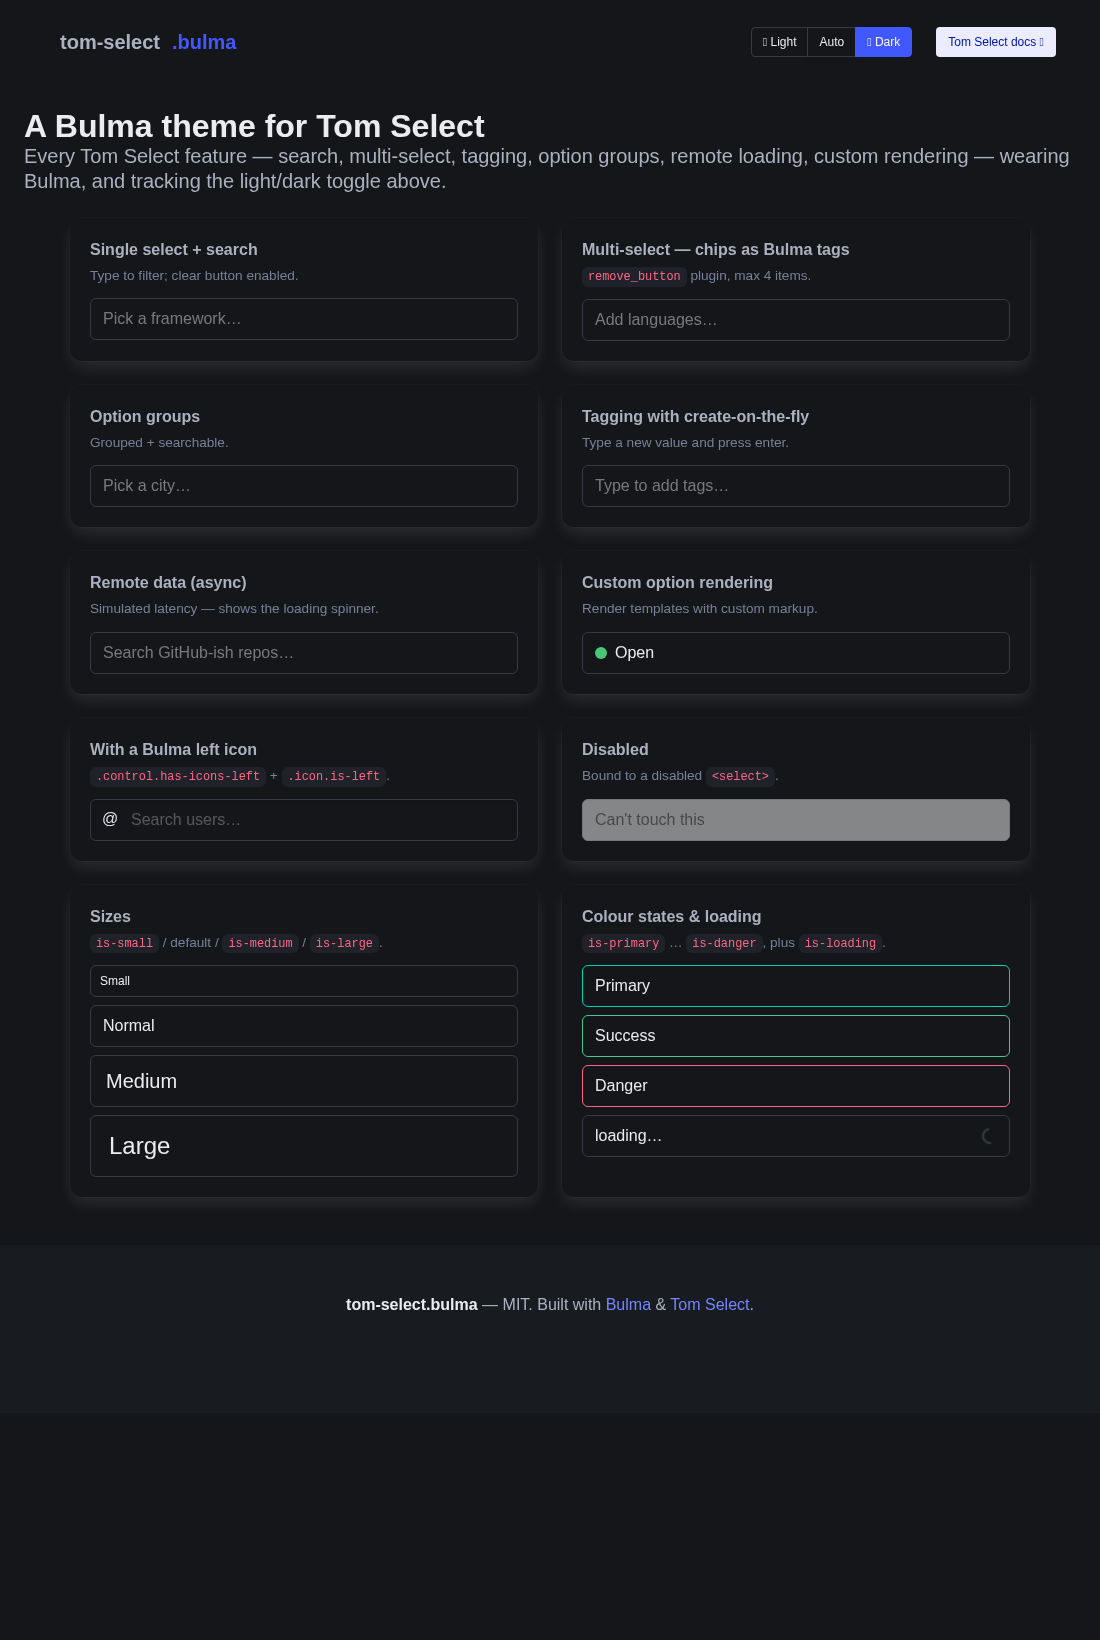
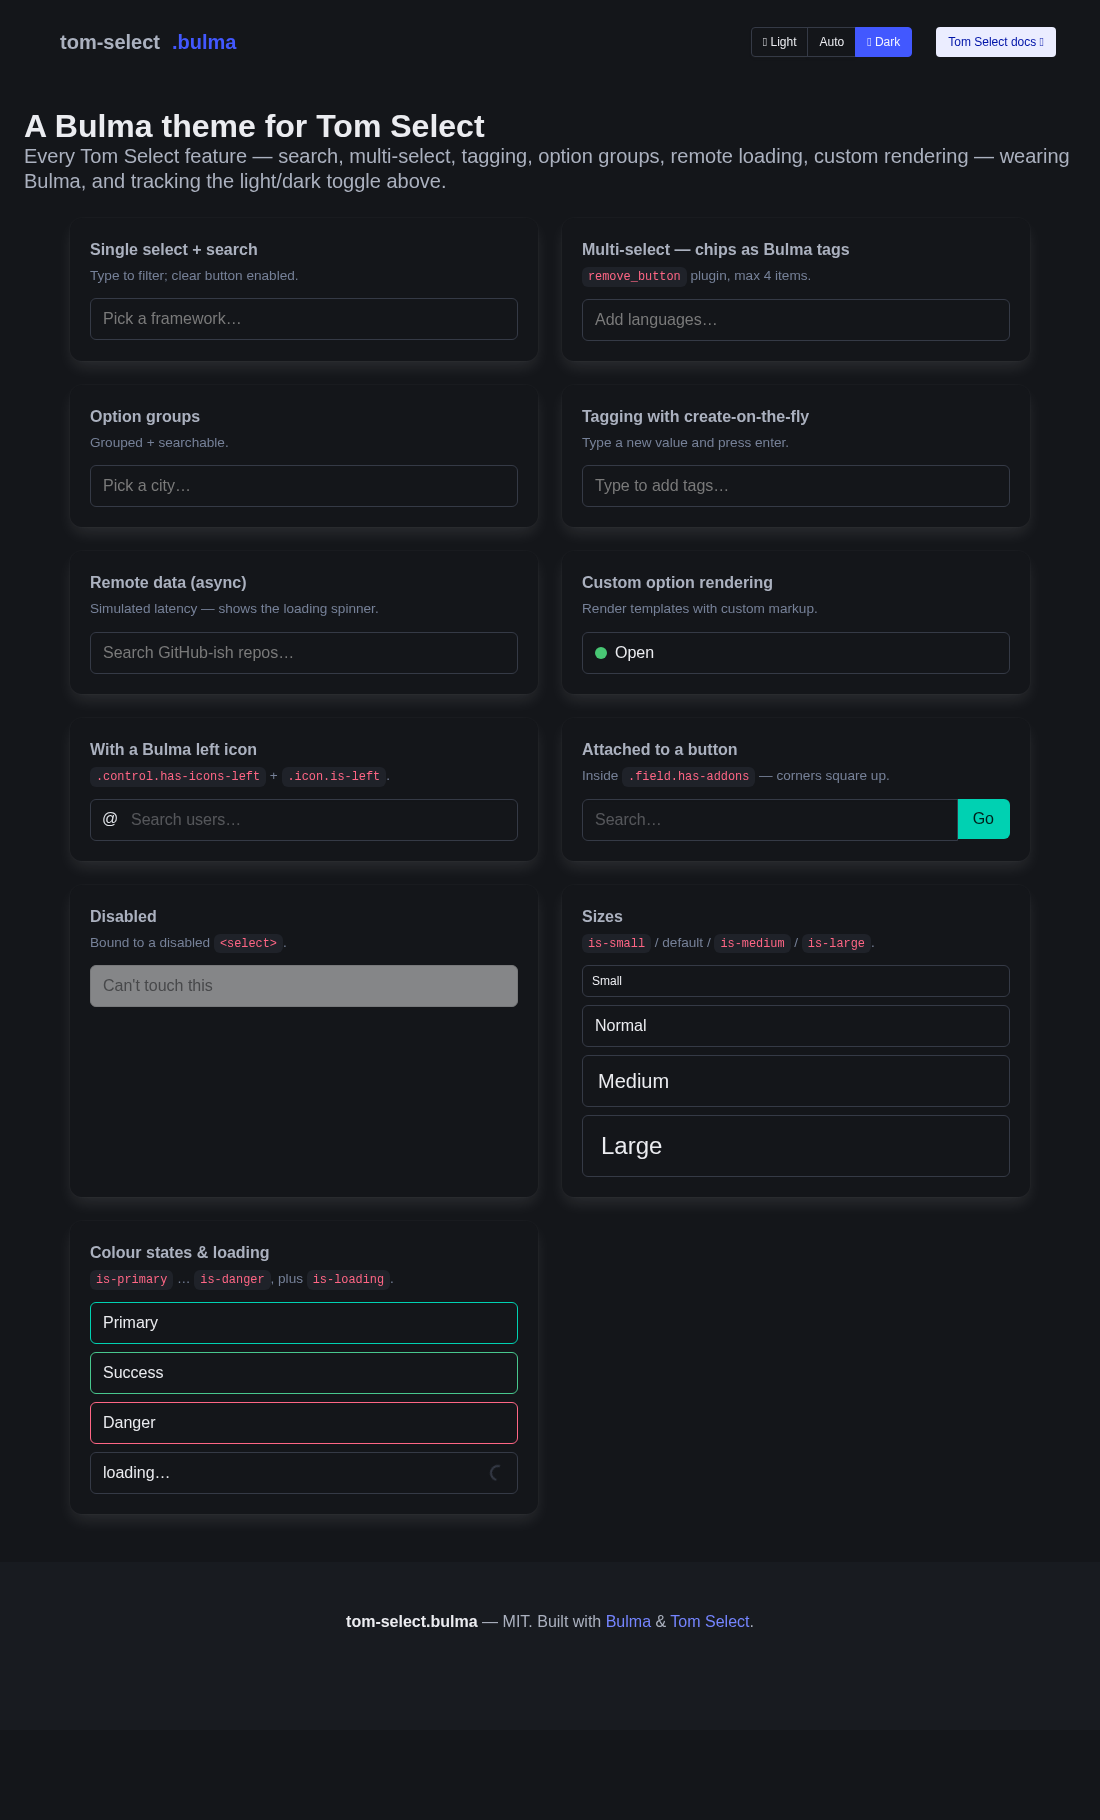
feat: has-addons grouping, optgroup dividers; add BS5 comparison
- Square the control's inner corners inside .field.has-addons so it joins
  flush with an adjacent button/control (+ is-expanded growth, focus z-index),
  matching what the bootstrap5 theme does for .input-group.
- Add a divider line between option groups (.optgroup-header border-top);
  the base already suppresses it on the first group.
- Add a 'has-addons' example to the demo gallery; refresh screenshots.
- README: add a parity table vs the official bootstrap5 theme, with notes
  on which Bootstrap-specific rows are N/A for Bulma.

diff --git a/src/tom-select.bulma.scss b/src/tom-select.bulma.scss
@@ -155,6 +155,9 @@ $ts-bulma-colors: primary, link, info, success, warning, danger;
 	color: var(--bulma-text-weak, #7a7a7a);
 	background-color: var(--bulma-scheme-main, #fff);
 	font-weight: var(--bulma-weight-semibold, 600);
+	// Divider between option groups. The base already suppresses this on the
+	// first group via `.optgroup:first-child .optgroup-header { border-top: 0 }`.
+	border-top: 1px solid var(--bulma-border, #dbdbdb);
 }
 
 // --- Disabled --------------------------------------------------------------
@@ -267,6 +270,33 @@ $ts-bulma-colors: primary, link, info, success, warning, danger;
 }
 .control.has-icons-right .icon {
 	right: 0;
+}
+
+// --- Bulma .field.has-addons grouping ---------------------------------------
+// Square the inner corners so the control butts flush against an adjacent
+// control/button, mirroring how Bulma treats a native .input / .select.
+.field.has-addons .control:not(:first-child):not(:last-child) .ts-control {
+	border-radius: 0;
+}
+.field.has-addons .control:first-child:not(:only-child) .ts-control {
+	border-top-right-radius: 0;
+	border-bottom-right-radius: 0;
+}
+.field.has-addons .control:last-child:not(:only-child) .ts-control {
+	border-top-left-radius: 0;
+	border-bottom-left-radius: 0;
+}
+// Let an .is-expanded control grow, and its wrapper fill it.
+.field.has-addons .control.is-expanded {
+	flex-grow: 1;
+	flex-shrink: 1;
+}
+.field.has-addons .control.is-expanded .ts-wrapper {
+	width: 100%;
+}
+// Raise the focused control so its focus ring is not clipped by the neighbour.
+.field.has-addons .ts-wrapper.focus {
+	z-index: 4;
 }
 
 // --- Loading spinner (Bulma .is-loading; also Tom Select's own `.loading`) --

diff --git a/docs/tom-select.bulma.css b/docs/tom-select.bulma.css
@@ -474,6 +474,7 @@
   color: var(--bulma-text-weak, #7a7a7a);
   background-color: var(--bulma-scheme-main, #fff);
   font-weight: var(--bulma-weight-semibold, 600);
+  border-top: 1px solid var(--bulma-border, #dbdbdb);
 }
 
 .ts-wrapper.disabled .ts-control {
@@ -623,6 +624,33 @@
 
 .control.has-icons-right .icon {
   right: 0;
+}
+
+.field.has-addons .control:not(:first-child):not(:last-child) .ts-control {
+  border-radius: 0;
+}
+
+.field.has-addons .control:first-child:not(:only-child) .ts-control {
+  border-top-right-radius: 0;
+  border-bottom-right-radius: 0;
+}
+
+.field.has-addons .control:last-child:not(:only-child) .ts-control {
+  border-top-left-radius: 0;
+  border-bottom-left-radius: 0;
+}
+
+.field.has-addons .control.is-expanded {
+  flex-grow: 1;
+  flex-shrink: 1;
+}
+
+.field.has-addons .control.is-expanded .ts-wrapper {
+  width: 100%;
+}
+
+.field.has-addons .ts-wrapper.focus {
+  z-index: 4;
 }
 
 .ts-wrapper.is-loading::after,

diff --git a/docs/index.html b/docs/index.html
@@ -195,6 +195,27 @@
 						</div>
 					</div>
 
+					<!-- Grouped with has-addons -->
+					<div class="column is-half">
+						<div class="box">
+							<p class="demo-label">Attached to a button</p>
+							<p class="demo-note">Inside <code>.field.has-addons</code> — corners square up.</p>
+							<div class="field has-addons">
+								<div class="control is-expanded">
+									<select id="addons" placeholder="Search…" autocomplete="off">
+										<option value="">Search…</option>
+										<option value="repo">Repository</option>
+										<option value="user">User</option>
+										<option value="issue">Issue</option>
+									</select>
+								</div>
+								<div class="control">
+									<button class="button is-primary">Go</button>
+								</div>
+							</div>
+						</div>
+					</div>
+
 					<!-- Disabled -->
 					<div class="column is-half">
 						<div class="box">
@@ -284,6 +305,7 @@
 				create: true,
 			});
 			new TomSelect('#icon', {});
+			new TomSelect('#addons', {});
 			new TomSelect('#disabled', {}); // Tom Select reads the disabled attr → .disabled wrapper
 			['#z1', '#z2', '#z3', '#z4'].forEach((s) => new TomSelect(s, {}));
 			['#c1', '#c2', '#c3'].forEach((s) => new TomSelect(s, {}));

diff --git a/README.md b/README.md
@@ -113,6 +113,31 @@ docs/index.html             the live example gallery (GitHub Pages source)
 docs/tom-select.bulma.css   compiled copy the demo loads
 ```
 
+## Compared to the official Bootstrap 5 theme
+
+Tom Select's `bootstrap5` theme is the closest reference point. This theme aims for parity on
+everything that maps to a Bulma idiom, and goes further where Bulma offers more:
+
+| Feature | `bootstrap5` | `tom-select.bulma` | Notes |
+| --- | :---: | :---: | --- |
+| Core skin (colour / border / radius / padding) | ✓ | ✓ | We derive ours from `var(--bulma-*)`. |
+| **Dark mode** | ✗ | ✓ | BS5 is light-only unless you wire up Bootstrap's dark vars; ours follows `data-theme="dark"` automatically. |
+| Focus ring | ✓ | ✓ | |
+| Placeholder, transitions, shadow | ✓ | ✓ | |
+| Multi-select chips + `remove_button` | ✓ | ✓ | Ours render as Bulma tags. |
+| Sizes | sm, lg | small, **medium**, large | Bootstrap only has two sizes. |
+| Colour states | invalid / valid | all six `is-*` + `.invalid` | |
+| Disabled | ✓ | ✓ | |
+| Option-group headers + divider | ✓ | ✓ | |
+| `has-addons` / `input-group` grouping | ✓ | ✓ | Inner corners square up against the neighbour. |
+| Left / right **icon slots** | ✗ | ✓ | `has-icons-left` — not a Bootstrap idiom. |
+| **`is-loading` spinner** | ✗ | ✓ | Bulma-style ring on the control. |
+| Validation ✓/✗ **SVG icons**, `was-validated` | ✓ | — | N/A by design: Bulma signals validity with a coloured border (+ optional `help` text), which the `is-*` / `.invalid` states already cover. |
+| `form-control` vs `form-select` split | ✓ | — | N/A: Bulma has no two-class split for inputs vs selects. |
+
+The dash (`—`) rows are **not gaps** — they are Bootstrap-specific conventions with no Bulma
+equivalent, so reproducing them would look foreign in a Bulma page.
+
 ## Notes / limitations
 
 - Built against **Bulma 1.0** (CSS-variable era) and **Tom Select v2**.